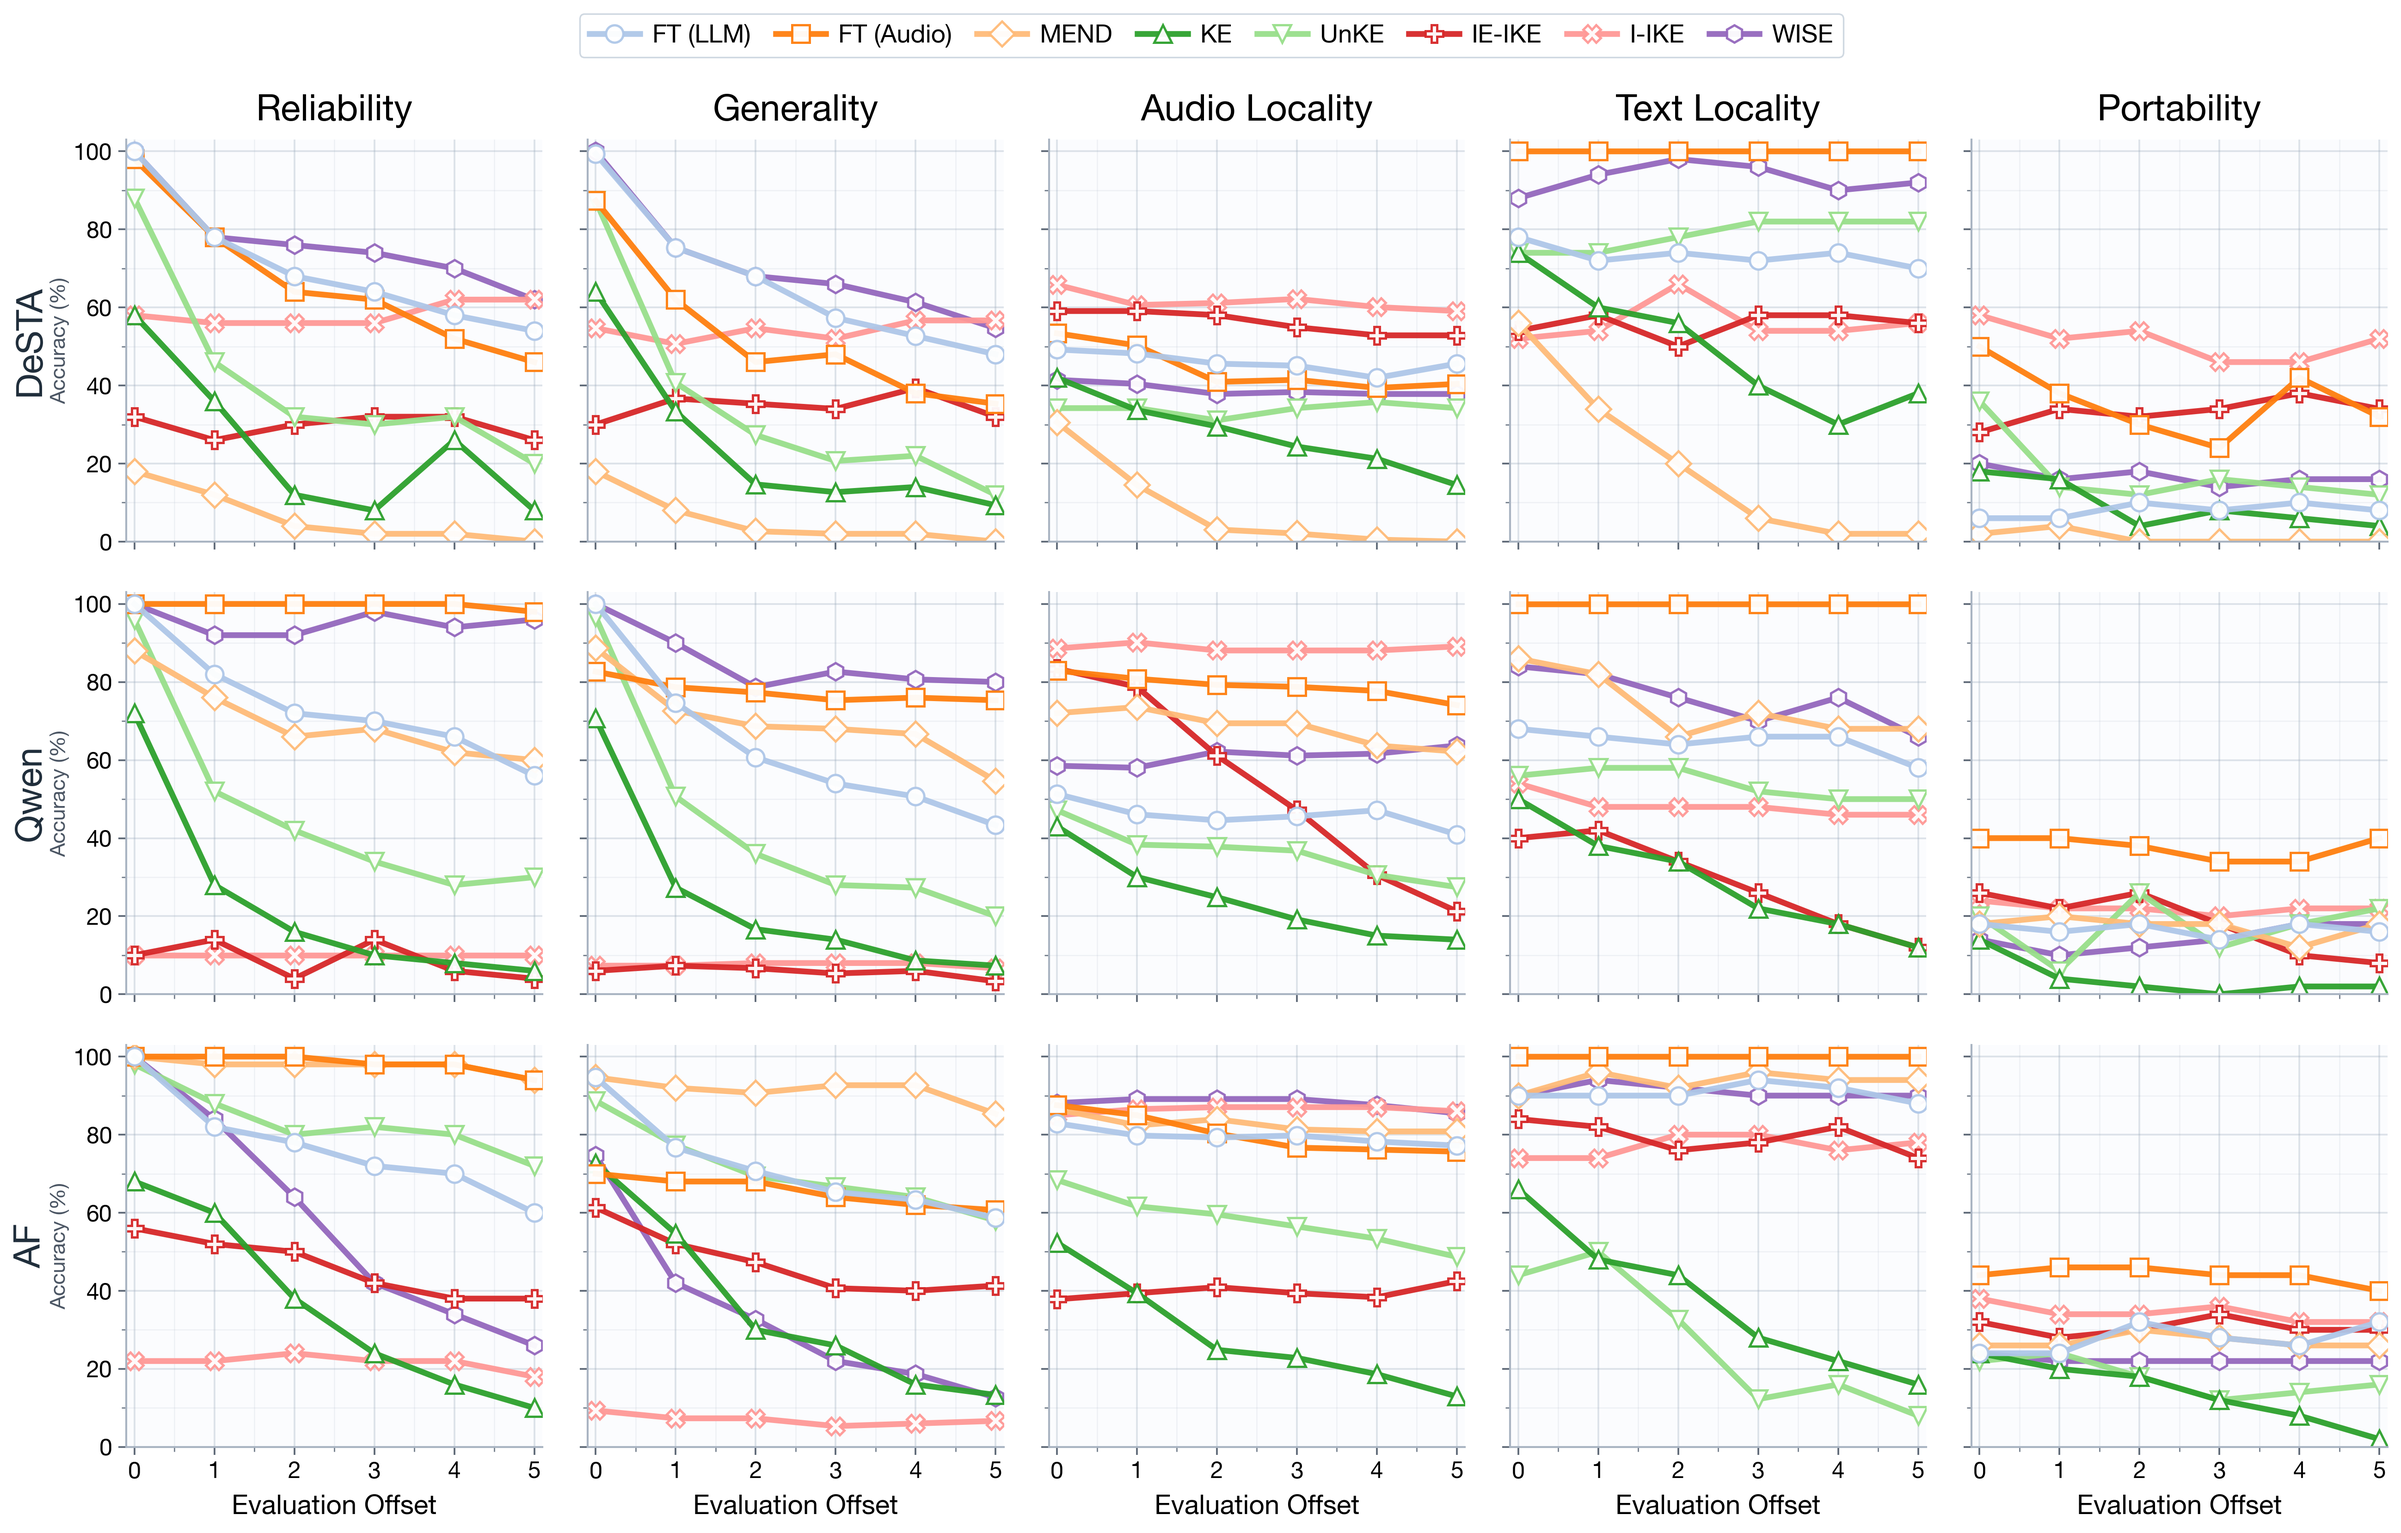
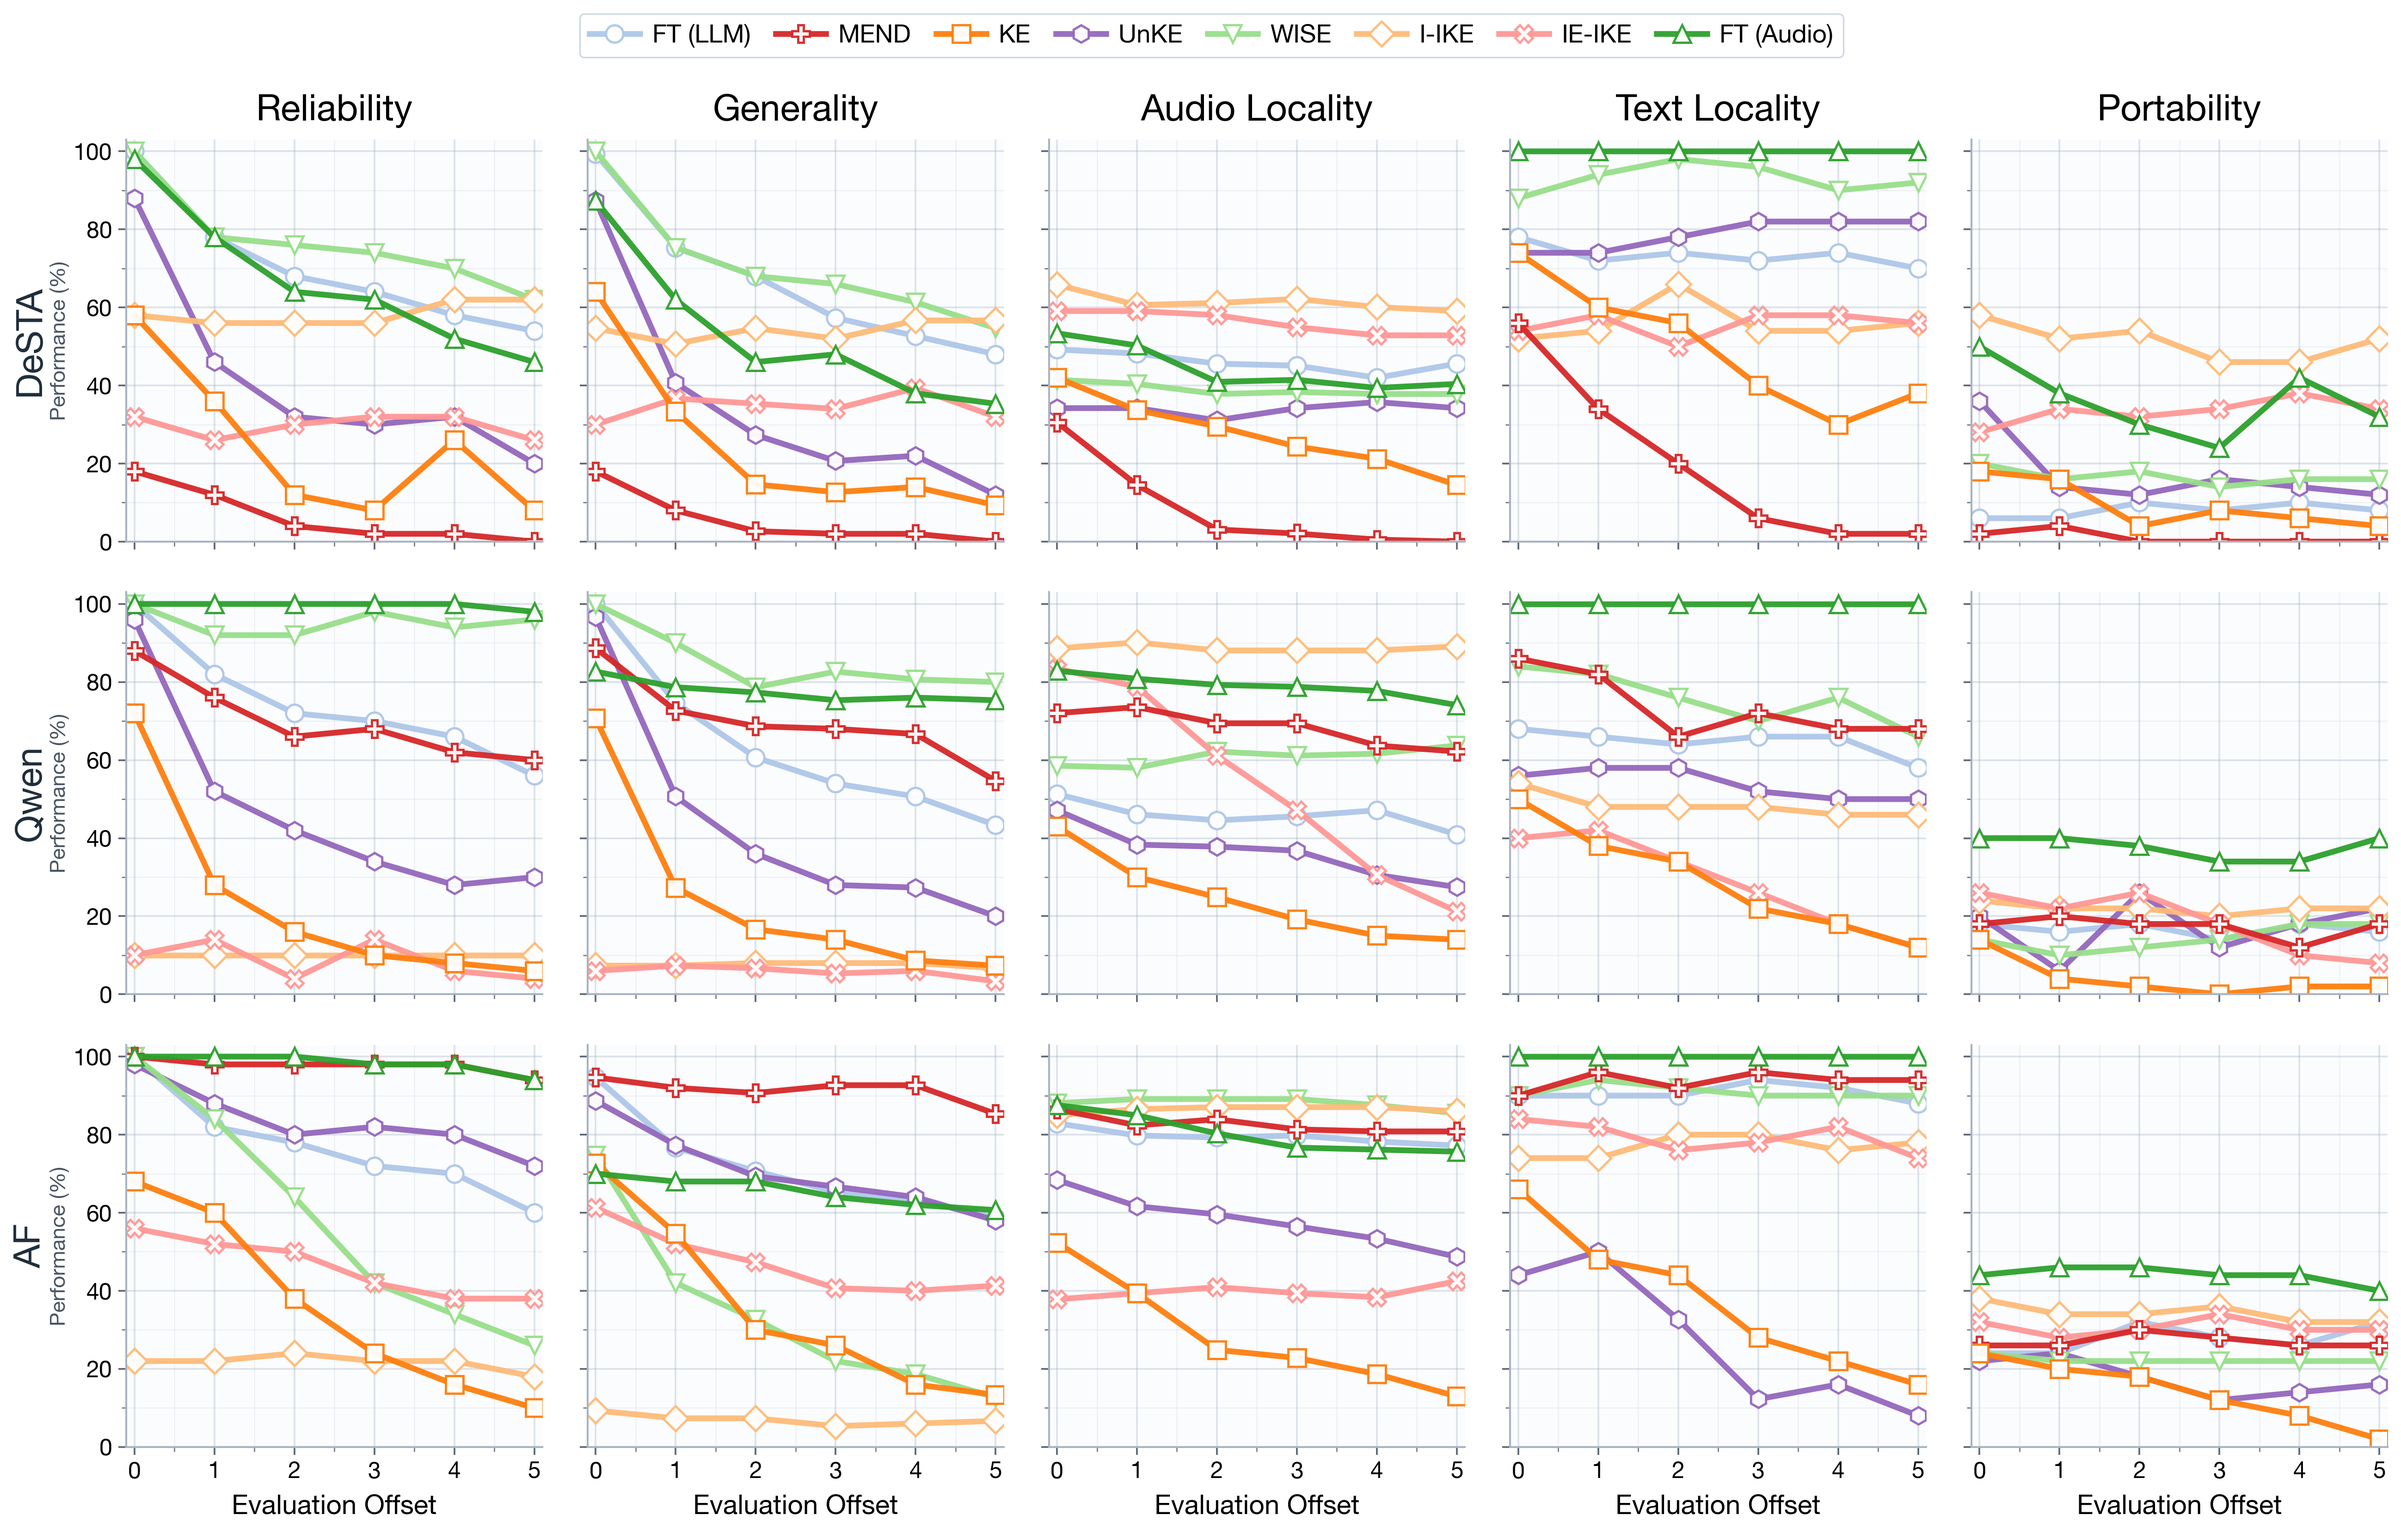
Add updated sequential line chart

diff --git a/model_outputs/paper_utils/plot_scripts/seq_line_chart.py b/model_outputs/paper_utils/plot_scripts/seq_line_chart.py
@@ -135,15 +135,53 @@ def prepare_series(method_data):
     return gaps, means, stds
 
 
+# ==========================================
+# CONFIGURATION: PLOT ORDER & STYLES
+# ==========================================
+# 1. Legend Order
+method_legend_order = [
+    "FT (LLM)",
+    "MEND",
+    "KE",
+    "UnKE",
+    "WISE",
+    "I-IKE",
+    "IE-IKE",
+    "FT (Audio)",
+]
+
+# 2. Draw Order (the order lines are plotted; later items appear on top)
+method_draw_order = [
+    "FT (LLM)",
+    "UnKE",
+    "WISE",
+    "I-IKE",
+    "IE-IKE",
+    "MEND",
+    "KE",
+    "FT (Audio)",
+]
+
+# 3. Method Styles (Colors, Markers, Linestyles)
+METHOD_STYLES = {
+    "FT (LLM)": {"color": "#aec7e8", "marker": "o", "linestyle": "-"},
+    "KE": {"color": "#ff7f0e", "marker": "s", "linestyle": "-"},
+    "I-IKE": {"color": "#ffbb78", "marker": "D", "linestyle": "-"},
+    "FT (Audio)": {"color": "#2ca02c", "marker": "^", "linestyle": "-"},
+    "WISE": {"color": "#98df8a", "marker": "v", "linestyle": "-"},
+    "MEND": {"color": "#d62728", "marker": "P", "linestyle": "-"},
+    "IE-IKE": {"color": "#ff9896", "marker": "X", "linestyle": "-"},
+    "UnKE": {"color": "#9467bd", "marker": "h", "linestyle": "-"},
+}
+# ==========================================
+
+
 def build_method_style_map(methods):
-    palette = plt.get_cmap("tab20").colors
     style_map = {}
-    for idx, method in enumerate(methods):
-        style_map[method] = {
-            "color": palette[(idx + 1) % len(palette)],
-            "marker": MARKERS[idx % len(MARKERS)],
-            "linestyle": LINE_STYLES[(idx // len(palette)) % len(LINE_STYLES)],
-        }
+    for method in methods:
+        style_map[method] = METHOD_STYLES.get(
+            method, {"color": "black", "marker": "o", "linestyle": "-"}
+        )
     return style_map
 
 
@@ -381,6 +419,10 @@ if combined_mode:
             if method not in method_order:
                 method_order.append(method)
 
+    method_order.sort(
+        key=lambda x: method_legend_order.index(x) if x in method_legend_order else 999
+    )
+
     method_styles = build_method_style_map(method_order)
     legend_lines = {}
 
@@ -397,7 +439,7 @@ if combined_mode:
                 title=metric_name if row_idx == 0 else None,
                 title_size=19,
                 xlabel="Evaluation Offset" if row_idx == n_rows - 1 else None,
-                ylabel="Accuracy (%)" if col_idx == 0 else None,
+                ylabel="Performance (%)" if col_idx == 0 else None,
                 hide_left=col_idx != 0,
                 hide_bottom=row_idx != n_rows - 1,
                 label_size=14,
@@ -421,7 +463,14 @@ if combined_mode:
                     color="#1F2D3A",
                 )
 
-            for i, method in enumerate(valid_methods[::-1]):
+            draw_methods = sorted(
+                valid_methods,
+                key=lambda x: (
+                    method_draw_order.index(x) if x in method_draw_order else 999
+                ),
+            )
+
+            for i, method in enumerate(draw_methods):
                 if method not in plot_data[metric_name]:
                     continue
 
@@ -497,6 +546,9 @@ for m_name in models_to_plot:
 
     # Filter out methods with no data
     valid_methods = get_valid_methods(plot_data, methods, metric_names)
+    valid_methods.sort(
+        key=lambda x: method_legend_order.index(x) if x in method_legend_order else 999
+    )
 
     # Setup subplots
     if args.grid_layout:
@@ -513,7 +565,7 @@ for m_name in models_to_plot:
 
     method_styles = build_method_style_map(valid_methods)
 
-    lines = []  # For legend
+    legend_lines = {}  # For legend
 
     for idx, metric_name in enumerate(metric_names):
         ax = axes_flat[idx]
@@ -534,14 +586,19 @@ for m_name in models_to_plot:
             title=metric_name,
             title_size=22,
             xlabel="Evaluation Offset" if show_xlabel else None,
-            ylabel="Accuracy (%)" if show_ylabel else None,
+            ylabel="Performance (%)" if show_ylabel else None,
             hide_left=not show_ylabel,
             hide_bottom=False,
             label_size=18,
             tick_size=15,
         )
 
-        for i, method in enumerate(valid_methods):
+        draw_methods = sorted(
+            valid_methods,
+            key=lambda x: method_draw_order.index(x) if x in method_draw_order else 999,
+        )
+
+        for i, method in enumerate(draw_methods):
             if method not in plot_data[metric_name]:
                 continue
 
@@ -576,11 +633,11 @@ for m_name in models_to_plot:
                     edgecolor=None,
                 )
 
-            if idx == 0:
-                lines.append(line)
+            if method not in legend_lines:
+                legend_lines[method] = line
 
     # Create a single legend
-    if args.show_legend:
+    if args.show_legend and legend_lines:
         bbox_anchor = (
             (0.5, STANDARD_GRID_LEGEND_Y)
             if args.grid_layout
@@ -591,9 +648,11 @@ for m_name in models_to_plot:
             if args.grid_layout
             else min(6, len(valid_methods))
         )
+        legend_handles = [legend_lines[m] for m in valid_methods if m in legend_lines]
+        legend_labels = [m for m in valid_methods if m in legend_lines]
         legend = fig.legend(
-            lines,
-            valid_methods,
+            legend_handles,
+            legend_labels,
             loc="upper center",
             bbox_to_anchor=bbox_anchor,
             ncol=n_cols,
